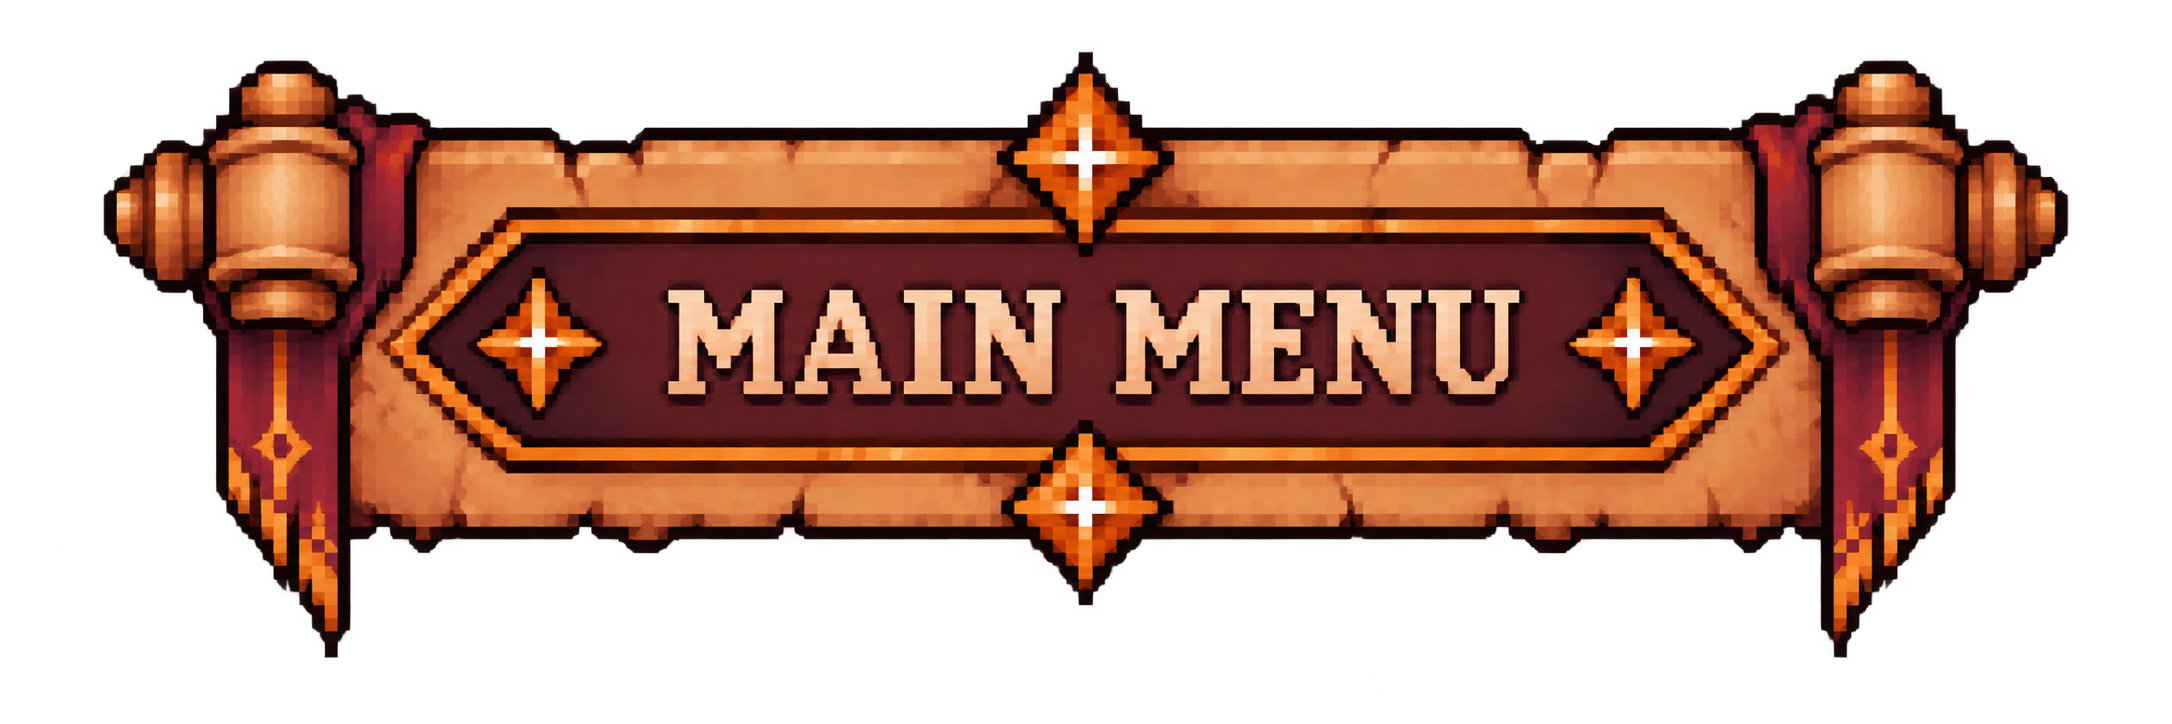
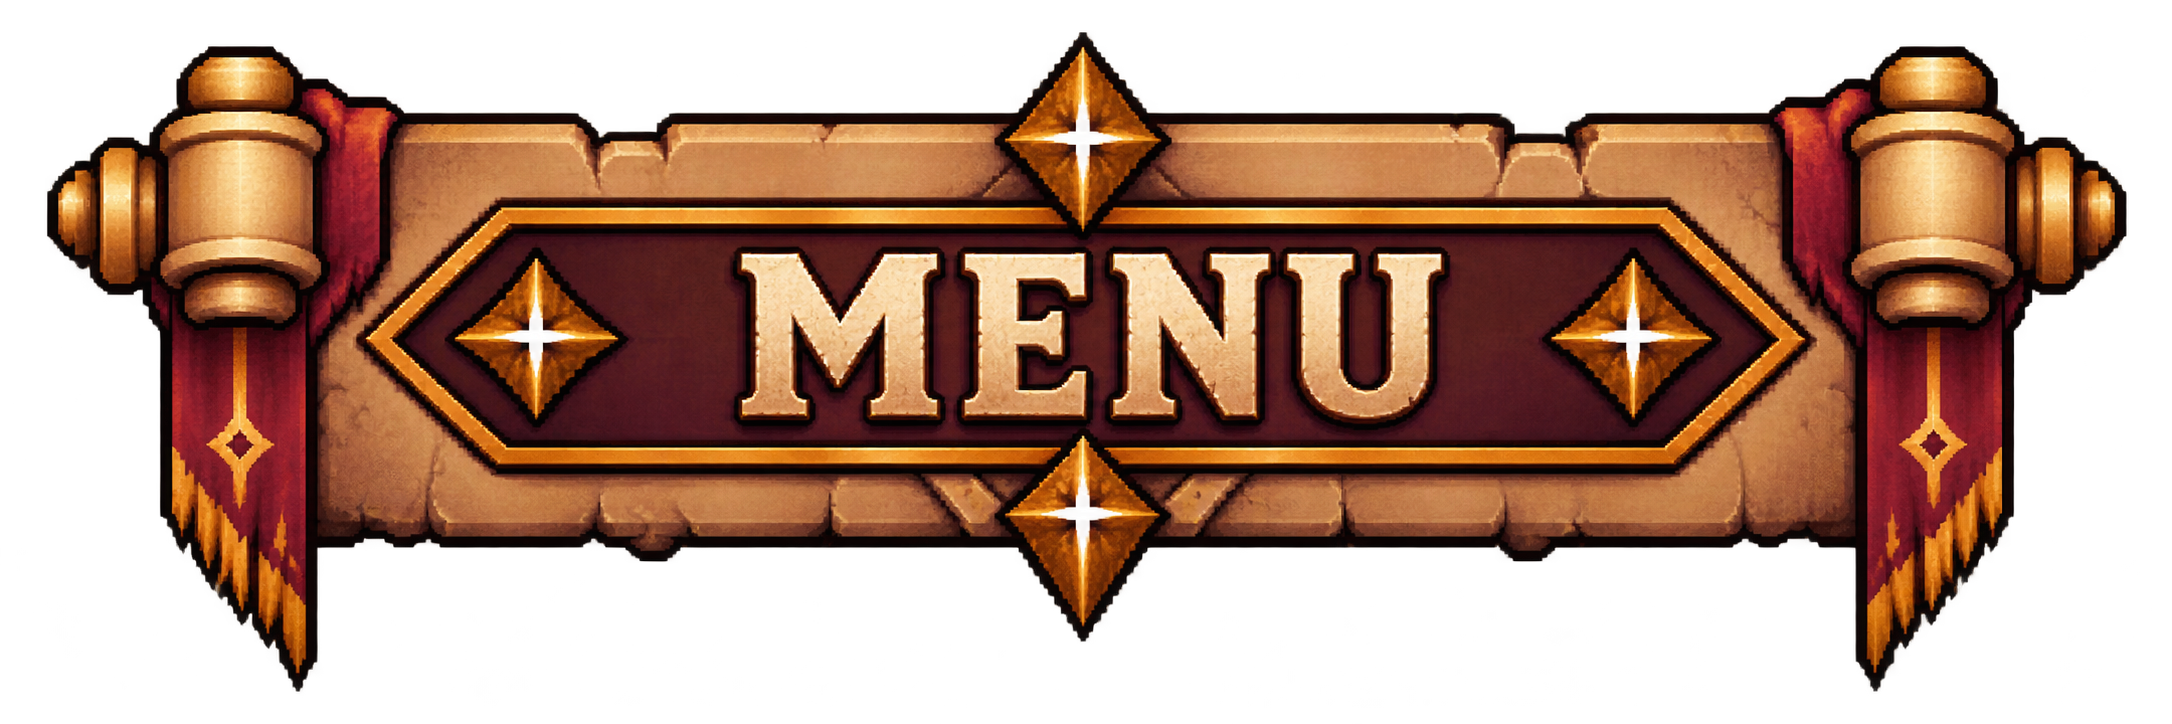
Updated scrollpane to adjust initial height based on current node and updated menu button

diff --git a/source/core/src/main/com/csse3200/game/screens/MapScreen.java b/source/core/src/main/com/csse3200/game/screens/MapScreen.java
@@ -16,6 +16,7 @@ import com.csse3200.game.GdxGame;
 import com.csse3200.game.cards.CardConfigLoader;
 import com.csse3200.game.cards.CardLibrary;
 import com.csse3200.game.components.battle.InventoryPopupComponent;
+import com.csse3200.game.components.pausemenu.PauseMenuDisplay;
 import com.csse3200.game.components.pausemenu.PauseMenuFactory;
 import com.csse3200.game.components.save.SaveLoadPanel;
 import com.csse3200.game.components.spritedisplay.clickable.BattleMenuSkins;
@@ -61,6 +62,7 @@ public class MapScreen extends com.badlogic.gdx.ScreenAdapter {
   private ImageButton exitButton;
   private MapDisplay mapDisplay;
   private ImageTextButton inventoryButton;
+  private Entity uiEntity;
 
   public MapScreen(GdxGame game) {
     this.game = game;
@@ -128,8 +130,8 @@ public class MapScreen extends com.badlogic.gdx.ScreenAdapter {
     terminal.addCommand(
         "discoverallcards", new DiscoverAllCardsCommand(game.getCardDiscoveryService()));
 
-    Entity ui = new Entity();
-    ui.addComponent(new InputDecorator(ServiceLocator.getRenderService().getStage(), 10))
+    uiEntity = new Entity();
+    uiEntity.addComponent(new InputDecorator(ServiceLocator.getRenderService().getStage(), 10))
         .addComponent(mapDisplay)
         .addComponent(terminal)
         .addComponent(new KeyboardTerminalInputComponent())
@@ -137,11 +139,11 @@ public class MapScreen extends com.badlogic.gdx.ScreenAdapter {
 
     // Pause menu + in-place save/load overlay (the map is the natural place to save a run).
     // No on-screen pause button here (it didn't fit the map HUD); Escape still opens the menu.
-    SaveLoadPanel savePanel = PauseMenuFactory.attachWithoutButton(ui, game);
-    ServiceLocator.getEntityService().register(ui);
+    SaveLoadPanel savePanel = PauseMenuFactory.attachWithoutButton(uiEntity, game);
+    ServiceLocator.getEntityService().register(uiEntity);
     savePanel.hide(); // save overlay starts hidden, opened by the Save & Load button
 
-    createExitButton(game);
+    createMenuButton(game);
     createInventoryButton(runState);
   }
 
@@ -250,7 +252,7 @@ public class MapScreen extends com.badlogic.gdx.ScreenAdapter {
    *
    * @param game the GdxGame required to change the game screen.
    */
-  private void createExitButton(GdxGame game) {
+  private void createMenuButton(GdxGame game) {
     Stage stage = ServiceLocator.getRenderService().getStage();
     // not hover
     Texture buttonTexture = new Texture(Gdx.files.internal("images/map/main_menu_btn.png"));
@@ -274,7 +276,7 @@ public class MapScreen extends com.badlogic.gdx.ScreenAdapter {
         new ChangeListener() {
           @Override
           public void changed(ChangeEvent event, Actor actor) {
-            game.setScreen(GdxGame.ScreenType.MAIN_MENU);
+            uiEntity.getEvents().trigger(PauseMenuDisplay.PAUSE_EVENT);
           }
         });
 

diff --git a/source/core/src/main/com/csse3200/game/maps/MapDisplay.java b/source/core/src/main/com/csse3200/game/maps/MapDisplay.java
@@ -138,12 +138,17 @@ public class MapDisplay extends UIComponent {
     scrollPane.setFillParent(true);
     scrollPane.setScrollingDisabled(true, false);
     scrollPane.setOverscroll(false, false);
-
     stage.addActor(scrollPane);
 
     scrollPane.layout();
-    scrollPane.setScrollPercentY(1f);
-
+    if (mapGraph.getCurrentNode().getHeight() == 0) {
+      scrollPane.setScrollPercentY(1f);
+    }
+    else {
+      int activeNodeHeight = mapGraph.getCurrentNode().getHeight();
+      scrollPane.setScrollY(stage.getWidth() - getNodeY(activeNodeHeight - 1));
+    }
+    
     addPlayerStats();
     addLegend();
   }
@@ -204,6 +209,16 @@ public class MapDisplay extends UIComponent {
    */
   private float getNodeY(MapNode node) {
     return node.getHeight() * 1.5f * nodeWidth + 2.5f * nodeWidth;
+  }
+
+  /**
+   * Calculates the y position for a height
+   *
+   * @param height height needed to find it's layer
+   * @return float y value to position the scrollpane
+   */
+  private float getNodeY(int height) {
+    return height * 1.5f * nodeWidth + 2.5f * nodeWidth;
   }
 
   /**
